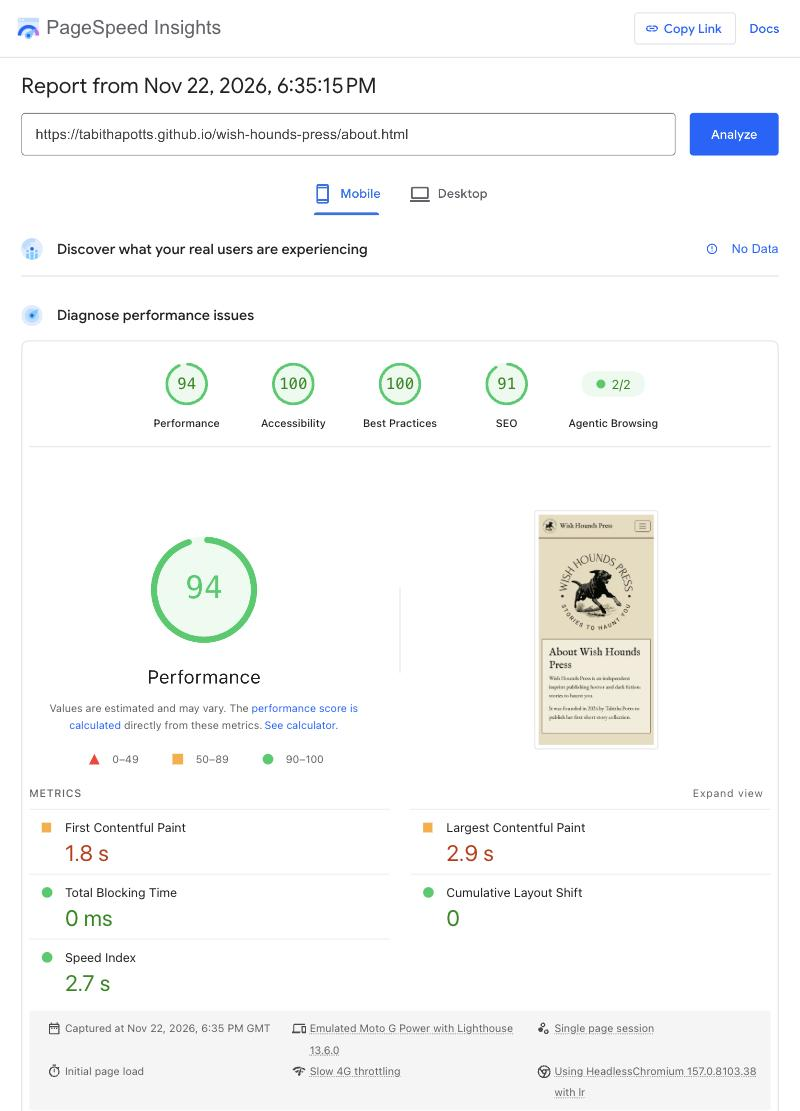
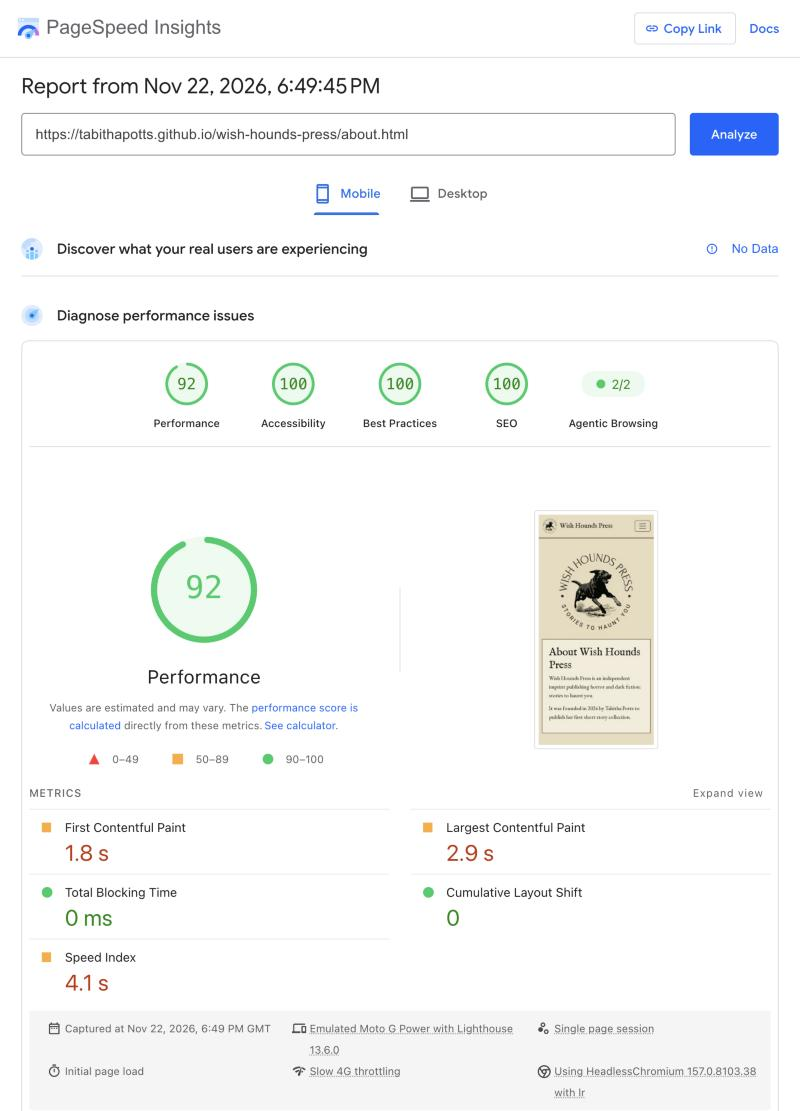
Re-run PageSpeed on About after fixing link text: SEO now 100
Claude-Session: https://claude.ai/code/session_0183qz8J4gm9wMPDQmnJwHdK

diff --git a/README.md b/README.md
@@ -157,7 +157,7 @@ The validator lists 14 warnings. They read "Due to their dynamic nature, CSS var
 | Page | Performance (mobile / desktop) | Accessibility | Best Practices | SEO |
 | :---- | :---- | :---- | :---- | :---- |
 | Book | 96 / 99 | 100 | 100 | 100 |
-| About | 94 / 100 | 100 | 100 | 91 |
+| About | 92 / 99 | 100 | 100 | 100 |
 | Trade | 98 / 100 | 100 | 100 | 100 |
 | Contact | 98 / 100 | 100 | 100 | 100 |
 | Thank you | 99 / 100 | 100 | 100 | 63 |
@@ -167,7 +167,7 @@ Accessibility, Best Practices and SEO were the same on mobile and desktop. The m
 **Accessibility, Best Practices and SEO, earlier run.** These were also checked with Lighthouse on mobile and desktop for every page, with the same results. The full reports (open the `.html` files in a browser) and screenshots are in `docs/testing/lighthouse/`.
 
 - Thank you (SEO 63): the page has `<meta name="robots" content="noindex">` on purpose, so search engines do not list it. Visitors should only reach it after sending a message.
-- About (SEO 91): the link to the Invisible Works article uses the text "here". Link text should make sense on its own, because screen-reader users often move from link to link. *(TODO: change the link text, then re-run Lighthouse on the About page.)*
+- About (SEO 91 in the earlier run, now 100): the link to the Invisible Works article used the text "here". Link text should make sense on its own, because screen-reader users often move from link to link. I changed it to "Read more about the Wisht Hounds of Dartmoor", with the link on "the Wisht Hounds of Dartmoor", and re-ran PageSpeed Insights on the About page.
 
 ### Other testing
 
